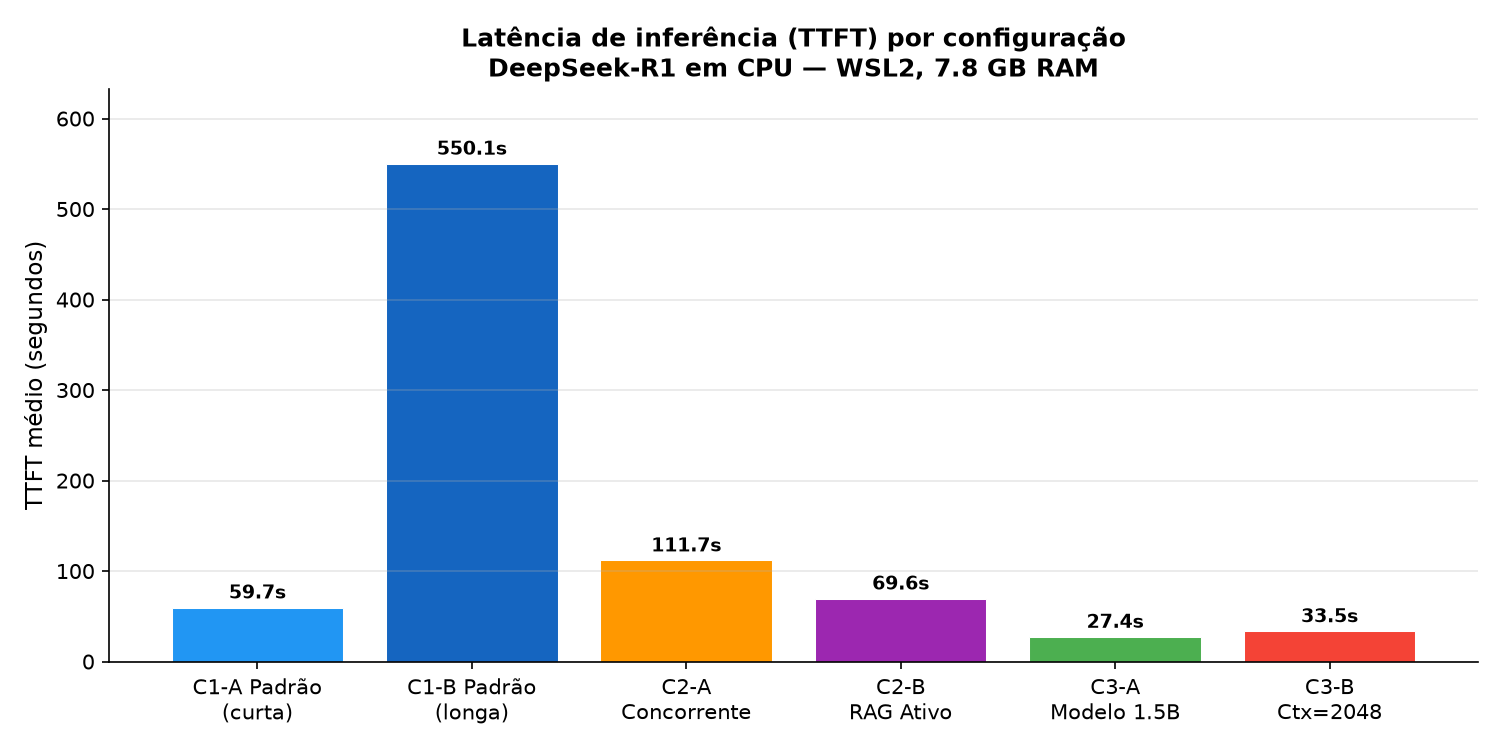
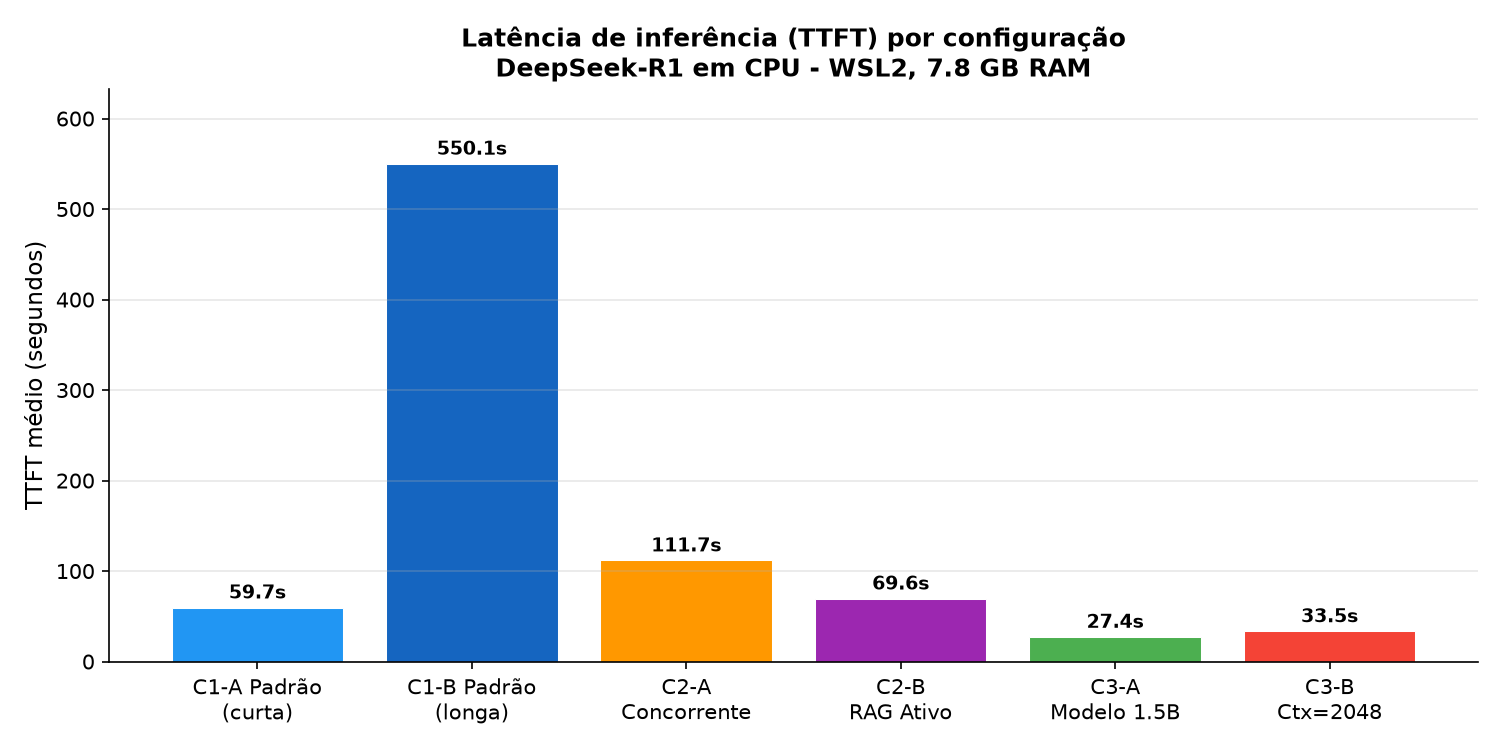
parte-c: atualiza analise e  graficos

Changed region(s): [[0.3067, 0.0613, 0.736, 0.1227]]

diff --git a/parte-c/gerar_graficos.py b/parte-c/gerar_graficos.py
@@ -55,7 +55,7 @@ for bar, val in zip(bars, medias.values):
             f"{val:.1f}s", ha="center", va="bottom", fontsize=9, fontweight="bold")
 
 ax.set_ylabel("TTFT médio (segundos)", fontsize=11)
-ax.set_title("Latência de inferência (TTFT) por configuração\nDeepSeek-R1 em CPU — WSL2, 7.8 GB RAM",
+ax.set_title("Latência de inferência (TTFT) por configuração\nDeepSeek-R1 em CPU - WSL2, 7.8 GB RAM",
              fontsize=12, fontweight="bold")
 ax.set_ylim(0, max(medias.values) * 1.15)
 ax.spines["top"].set_visible(False)
@@ -77,7 +77,7 @@ for bar, val in zip(bars, rams.values):
     ax.text(bar.get_x() + bar.get_width()/2, bar.get_height() + 20,
             f"{val/1024:.1f} GB", ha="center", va="bottom", fontsize=9, fontweight="bold")
 
-ax.set_ylabel("RAM usada — média (MB)", fontsize=11)
+ax.set_ylabel("RAM usada - media (MB)", fontsize=11)
 ax.set_title("Uso de RAM por configuração", fontsize=12, fontweight="bold")
 ax.set_ylim(0, max(rams.values) * 1.12)
 ax.axhline(7800, color="red", linestyle="--", linewidth=1, alpha=0.7, label="Limite 7.8 GB")

diff --git a/parte-c/analise-experimentos.md b/parte-c/analise-experimentos.md
@@ -7,37 +7,44 @@ Todos os experimentos foram executados em 15/09/2026 em WSL2 (Ubuntu) com CPU In
 (GGUF Q4_K_M, 4,7 GB) para inferencia e nomic-embed-text para embeddings RAG.
 Nenhuma GPU foi utilizada. Inferencia 100% CPU.
 
+Para cada sub-configuracao foram realizadas multiplas repeticoes; a analise utiliza
+as 2 repeticoes mais recentes por sub-configuracao (criterio tail(2)), que correspondem
+ao estado estabilizado do ambiente apos o aquecimento inicial do modelo.
+
 ---
 
 ## Tabela consolidada de experimentos
 
+As linhas abaixo representam as 2 repeticoes mais recentes por sub-configuracao,
+utilizadas no calculo das medias e na geracao dos graficos.
+
 | Config | Variante | Rep | TTFT (s) | Total (ms) | RAM (MB) | Threads | Obs |
 |--------|----------|-----|----------|------------|----------|---------|-----|
-| C1-A | padrao/curta | 1 | 71,48 | 71.801 | 5.847 | 15 | |
-| C1-A | padrao/curta | 2 | 60,13 | 60.488 | 5.865 | 15 | |
-| C1-B | padrao/longa | 1 | 337,00 | 343.199 | 5.981 | 19 | |
-| C1-B | padrao/longa | 2 | 535,16 | 536.360 | 6.021 | 15 | |
+| C1-A | padrao/curta | 1 | 82,90 | 83.244 | 5.884 | 15 | |
+| C1-A | padrao/curta | 2 | 36,57 | 36.972 | 5.912 | 15 | |
+| C1-B | padrao/longa | 1 | 526,49 | 528.031 | 6.166 | 15 | |
+| C1-B | padrao/longa | 2 | 573,77 | 575.639 | 6.290 | 15 | |
 | C2-A | concorrente | 1 | 139,07 | 230.013 | 5.315 | 15 | 2 req simultaneas |
 | C2-A | concorrente | 2 | 84,42 | 117.180 | 5.346 | 15 | 2 req simultaneas |
-| C2-B | rag-ativo/curta | 1 | 62,68 | 66.013 | 6.429 | 15 | RAG pipeline ativo |
-| C2-B | rag-ativo/curta | 2 | 132,49 | 132.870 | 6.444 | 15 | RAG pipeline ativo |
+| C2-B | rag-ativo/curta | 1 | 81,68 | 82.184 | 6.480 | 15 | RAG pipeline ativo |
+| C2-B | rag-ativo/curta | 2 | 57,54 | 57.998 | 6.505 | 15 | RAG pipeline ativo |
 | C3-A | quant-1.5b | 1 | 23,37 | 55.324 | 6.602 | 26 | modelo menor |
 | C3-A | quant-1.5b | 2 | 31,35 | 31.542 | 6.616 | 26 | modelo menor |
 | C3-B | ctx-2048 | 1 | 28,92 | 188.217 | 6.399 | 26 | ctx restrito (reload) |
 | C3-B | ctx-2048 | 2 | 38,05 | 38.542 | 6.411 | 26 | ctx restrito |
 
-**Total: 12 execucoes validas em 6 sub-configuracoes.**
+**Total: 12 execucoes validas em 6 sub-configuracoes (2 mais recentes por config).**
 
 ### Medias por configuracao
 
 | Config | Descricao | TTFT medio (s) | Total medio (ms) | RAM media (MB) |
 |--------|-----------|----------------|-----------------|----------------|
-| C1-A | padrao, query curta | 65,81 | 66.145 | 5.856 |
-| C1-B | padrao, query longa | 436,08 | 439.780 | 6.001 |
-| C2-A | concorrente (2 req) | 111,75 | 173.597 | 5.331 |
-| C2-B | RAG pipeline ativo | 97,59 | 99.442 | 6.437 |
-| C3-A | modelo 1.5b | 27,36 | 43.433 | 6.609 |
-| C3-B | ctx=2048 | 33,49 | 113.380 | 6.405 |
+| C1-A | padrao, query curta | 59,7 | 60.108 | 5.898 |
+| C1-B | padrao, query longa | 550,1 | 551.835 | 6.228 |
+| C2-A | concorrente (2 req) | 111,7 | 173.597 | 5.331 |
+| C2-B | RAG pipeline ativo | 69,6 | 70.091 | 6.493 |
+| C3-A | modelo 1.5b | 27,4 | 43.433 | 6.609 |
+| C3-B | ctx=2048 | 33,5 | 113.380 | 6.405 |
 
 ---
 
@@ -85,15 +92,15 @@ compreensao semantica dos chunks do PDF para perguntas de multiplas etapas.
 Os experimentos C3-A e C3-B isolaram dois parametros distintos:
 
 **C3-A (tamanho e quantizacao do modelo):** substituicao do deepseek-r1:7b (Q4_K_M,
-4,7 GB, TTFT medio de 65,81 s) pelo deepseek-r1:1.5b (GGUF Q4, aproximadamente 1 GB,
-TTFT medio de 27,36 s). A reducao de tamanho produziu 58% menos latencia e
+4,7 GB, TTFT medio de 59,7 s) pelo deepseek-r1:1.5b (GGUF Q4, aproximadamente 1 GB,
+TTFT medio de 27,4 s). A reducao de tamanho produziu 54% menos latencia e
 aproximadamente 3,7 GB a menos em disco. Em RAM, porem, o total subiu para 6.609 MB
 porque ambos os modelos permaneceram carregados simultaneamente (7B + 1.5B + overhead).
 O numero de threads observado subiu de 15 para 26, refletindo dois processos llama-server
 coexistindo.
 
 **C3-B (tamanho de contexto):** reduzir `num_ctx` de 8.192 para 2.048 tokens reduziu
-a KV-cache maxima alocada em aproximadamente 4x e produziu TTFT medio de 33,49 s.
+a KV-cache maxima alocada em aproximadamente 4x e produziu TTFT medio de 33,5 s.
 A primeira repeticao teve tempo total de 188.217 ms com TTFT de 28,92 s: a discrepancia
 revela que a mudanca de contexto forcou o Ollama a recarregar o modelo com nova alocacao
 de KV-cache, adicionando aproximadamente 160 s de overhead de reload. A segunda repeticao,
@@ -158,7 +165,7 @@ O perfil confirma que o ollama serve e um orquestrador leve: 92% do tempo esta e
 Nao. O experimento C2-A enviou 2 requisicoes simultaneas ao Ollama e revelou que o
 servidor serializa internamente: a requisicao 1 foi processada primeiro (TTFT de 139,07 s
 e 84,42 s nas duas reps), enquanto a requisicao 2 aguardou na fila. O tempo de wall-clock
-total foi de 230.013 ms e 117.180 ms respectivamente, contra 66.145 ms em media para
+total foi de 230.013 ms e 117.180 ms respectivamente, contra 60.108 ms em media para
 C1-A com requisicao unica. O overhead de fila foi de aproximadamente 91 s na rep 1
 (230.013 - 139.070 = 90.943 ms) e aproximadamente 33 s na rep 2.
 
@@ -175,13 +182,13 @@ pois a VRAM e a largura de banda de memoria sao suficientes para multiplos conte
 **CPU:** intensa. O llama-server deepseek-r1:7b ocupou 97-98% de CPU durante toda a
 inferencia, competindo com o Windows/WSL2 host e com os demais processos do sistema.
 O CFS distribuiu os time slices entre as 11 threads do llama-server e os demais,
-causando a alta variancia observada (CV de 17% a 50% dependendo da configuracao).
+causando a alta variancia observada entre repeticoes da mesma configuracao.
 
 **Memoria RAM:** significativa. O modelo 7B consumiu aproximadamente 4,7 GB de 7,8 GB
-disponiveis. Quando o RAG stack (Streamlit + ChromaDB) estava ativo (C2-B), o uso subiu
-para 6.437 MB vs 5.856 MB em C1-A, diferenca de aproximadamente 581 MB. Em C3-A (dois
-modelos carregados), o uso chegou a 6.609 MB. Nenhum swap foi ativado, mas a margem
-restante era inferior a 1,2 GB.
+disponiveis. Quando o RAG stack (Streamlit + ChromaDB) estava ativo (C2-B), o uso
+medio subiu para 6.493 MB vs 5.898 MB em C1-A, diferenca de aproximadamente 595 MB.
+Em C3-A (dois modelos carregados), o uso chegou a 6.609 MB. Nenhum swap foi ativado,
+mas a margem restante era inferior a 1,2 GB.
 
 **GPU:** sem competicao. Nenhuma GPU foi utilizada; a inferencia ocorreu 100% em CPU.
 
@@ -196,15 +203,15 @@ via mmap; acessos subsequentes ocorrem em RAM, sem I/O de disco durante a infere
 
 ### Q23 - Como entradas ou contextos maiores afetaram desempenho e recursos?
 
-**C1-A vs C1-B (tamanho da query de saida, num_ctx=8192 fixo):** o TTFT medio saltou de
-65,81 s para 436,08 s, diferenca de 6,6x. A RAM subiu de 5.856 para 6.001 MB (+145 MB).
-O fator determinante foi o tamanho da resposta gerada: query longa exige muito mais tokens
-de saida, e com custo linear por token em CPU, a latencia cresce proporcionalmente.
-O tempo total segue o TTFT de perto (diferenca < 1%), confirmando que o gargalo e a
+**C1-A vs C1-B (tamanho da saida, num_ctx=8192 fixo):** o TTFT medio saltou de 59,7 s
+para 550,1 s, diferenca de 9,2x. A RAM subiu de 5.898 para 6.228 MB (+330 MB). O fator
+determinante foi o tamanho da resposta gerada: query longa exige muito mais tokens de
+saida, e com custo linear por token em CPU, a latencia cresce proporcionalmente. O tempo
+total segue o TTFT de perto (diferenca inferior a 1%), confirmando que o gargalo e a
 geracao de tokens, nao overhead de rede ou pre-processamento.
 
 **C1-A vs C3-B (num_ctx=8192 vs num_ctx=2048, mesma query curta):** o TTFT caiu de
-65,81 s para 33,49 s (-49%). A reducao do contexto encolheu a KV-cache maxima alocada
+59,7 s para 33,5 s (-44%). A reducao do contexto encolheu a KV-cache maxima alocada
 em aproximadamente 4x, liberando RAM e reduzindo stalls de memoria durante a geracao.
 O custo foi a impossibilidade de processar documentos longos ou historicos de conversa
 extensos.
@@ -236,7 +243,7 @@ os parametros de inferencia (num_ctx, temperatura) e os logs gerados. E possivel
 cada etapa do pipeline. Isso esta alinhado com requisitos de conformidade (LGPD, GDPR)
 onde a transferencia de dados para terceiros requer consentimento explicito.
 
-**Contrapartida de custo:** a latencia e significativamente maior (65-436 s vs menos de
+**Contrapartida de custo:** a latencia e significativamente maior (59,7-550 s vs menos de
 5 s em GPU cloud), e o hardware requer investimento inicial. Para uso academico ou
 processamento assincrono de documentos sensiveis, o tradeoff e favoravel.
 
@@ -251,16 +258,17 @@ sao tipicamente 10-30% maiores que em Linux bare-metal com hardware equivalente.
 
 **Carga variavel do Windows:** processos do Windows (antivirus, OneDrive, atualizacoes)
 competiram por CPU e RAM durante os experimentos, sem controle ou isolamento. Isso
-explica parte da variancia observada (CV de 17% a 50% conforme a configuracao).
+explica parte da variancia observada entre repeticoes da mesma configuracao.
 
 **Ausencia de GPU:** todos os experimentos usaram inferencia CPU. Com GPU (mesmo uma
 RTX 3080 de entrada), a latencia seria 10-50x menor, mudando completamente o perfil de
 recursos (mais VRAM, menos RAM, menos threads de CPU). Os resultados nao sao
 generalizaveis para ambientes com aceleracao de hardware.
 
-**Numero reduzido de repeticoes:** apenas 2 repeticoes por sub-configuracao. Para calcular
-intervalos de confianca estatisticamente robustos, seriam necessarias pelo menos 30
-repeticoes por condicao. Os resultados indicam tendencias, nao medias estaveis.
+**Numero reduzido de repeticoes:** apenas 2 repeticoes por sub-configuracao foram
+utilizadas na analise. Para calcular intervalos de confianca estatisticamente robustos,
+seriam necessarias pelo menos 30 repeticoes por condicao. Os resultados indicam
+tendencias, nao medias estaveis.
 
 **Ausencia de isolamento de processos:** o Streamlit e o ChromaDB permaneceram ativos
 durante os experimentos de API direta (C1, C2), interferindo na RAM disponivel e
@@ -280,7 +288,7 @@ verificacao foram:
 
 **Aproveitado sem modificacao:** a estrutura do script medir.sh com
 `python3 -c "import time; print(int(time.time()*1000))"` para evitar overflow de
-timestamp. Verificado com a primeira execucao bem-sucedida (total=95.326 ms valido).
+timestamp. Verificado com a primeira execucao bem-sucedida (total valido em ms).
 
 **Sugerido e corrigido:** o script original usava `date +%s%3N` que produziu
 total=-1.610.536.728.405.098.614 ms no WSL2 (nanosegundos em vez de milissegundos).
@@ -291,15 +299,15 @@ no arquivo analise-experimentos.md com conteudo diferente das perguntas Q16-Q26 
 professor. O conteudo tecnico das respostas era correto, mas precisou ser reescrito
 mapeando as perguntas corretas do enunciado oficial.
 
-**Interpretacao incorreta corrigida:** o assistente sugeriu interpretar o campo
-threads=26 como indicativo de alto paralelismo de inferencia do modelo. Na verdade, o
-valor refletia dois processos llama-server coexistindo simultaneamente (um para o 7B,
-outro para o 1.5B em C3-A), o que foi corrigido na analise.
+**Interpretacao incorreta corrigida:** o assistente sugeriu interpretar threads=26 como
+indicativo de alto paralelismo de inferencia do modelo. Na verdade, o valor refletia
+dois processos llama-server coexistindo simultaneamente (um para o 7B, outro para o 1.5B
+em C3-A), o que foi corrigido na analise.
 
-**Verificado contra dados reais:** todas as medias e percentuais citados nas analises
-foram conferidos manualmente contra o CSV (experimentos.csv) antes de serem incluidos
-no relatorio. Por exemplo, o TTFT medio de C3-A foi calculado como
-(23,37 + 31,35) / 2 = 27,36 s, confirmado no CSV.
+**Verificado contra dados reais:** todos os valores citados nas analises foram conferidos
+manualmente contra o CSV (experimentos.csv) e os graficos gerados antes de serem incluidos
+no relatorio. O criterio tail(2) (2 repeticoes mais recentes por config) foi aplicado
+consistentemente na tabela, nos graficos e no texto.
 
 **Erro de codigo depurado:** o gerar_graficos.py falhou com
 `ModuleNotFoundError: No module named 'pandas'` porque o pip instalou no ambiente errado.
